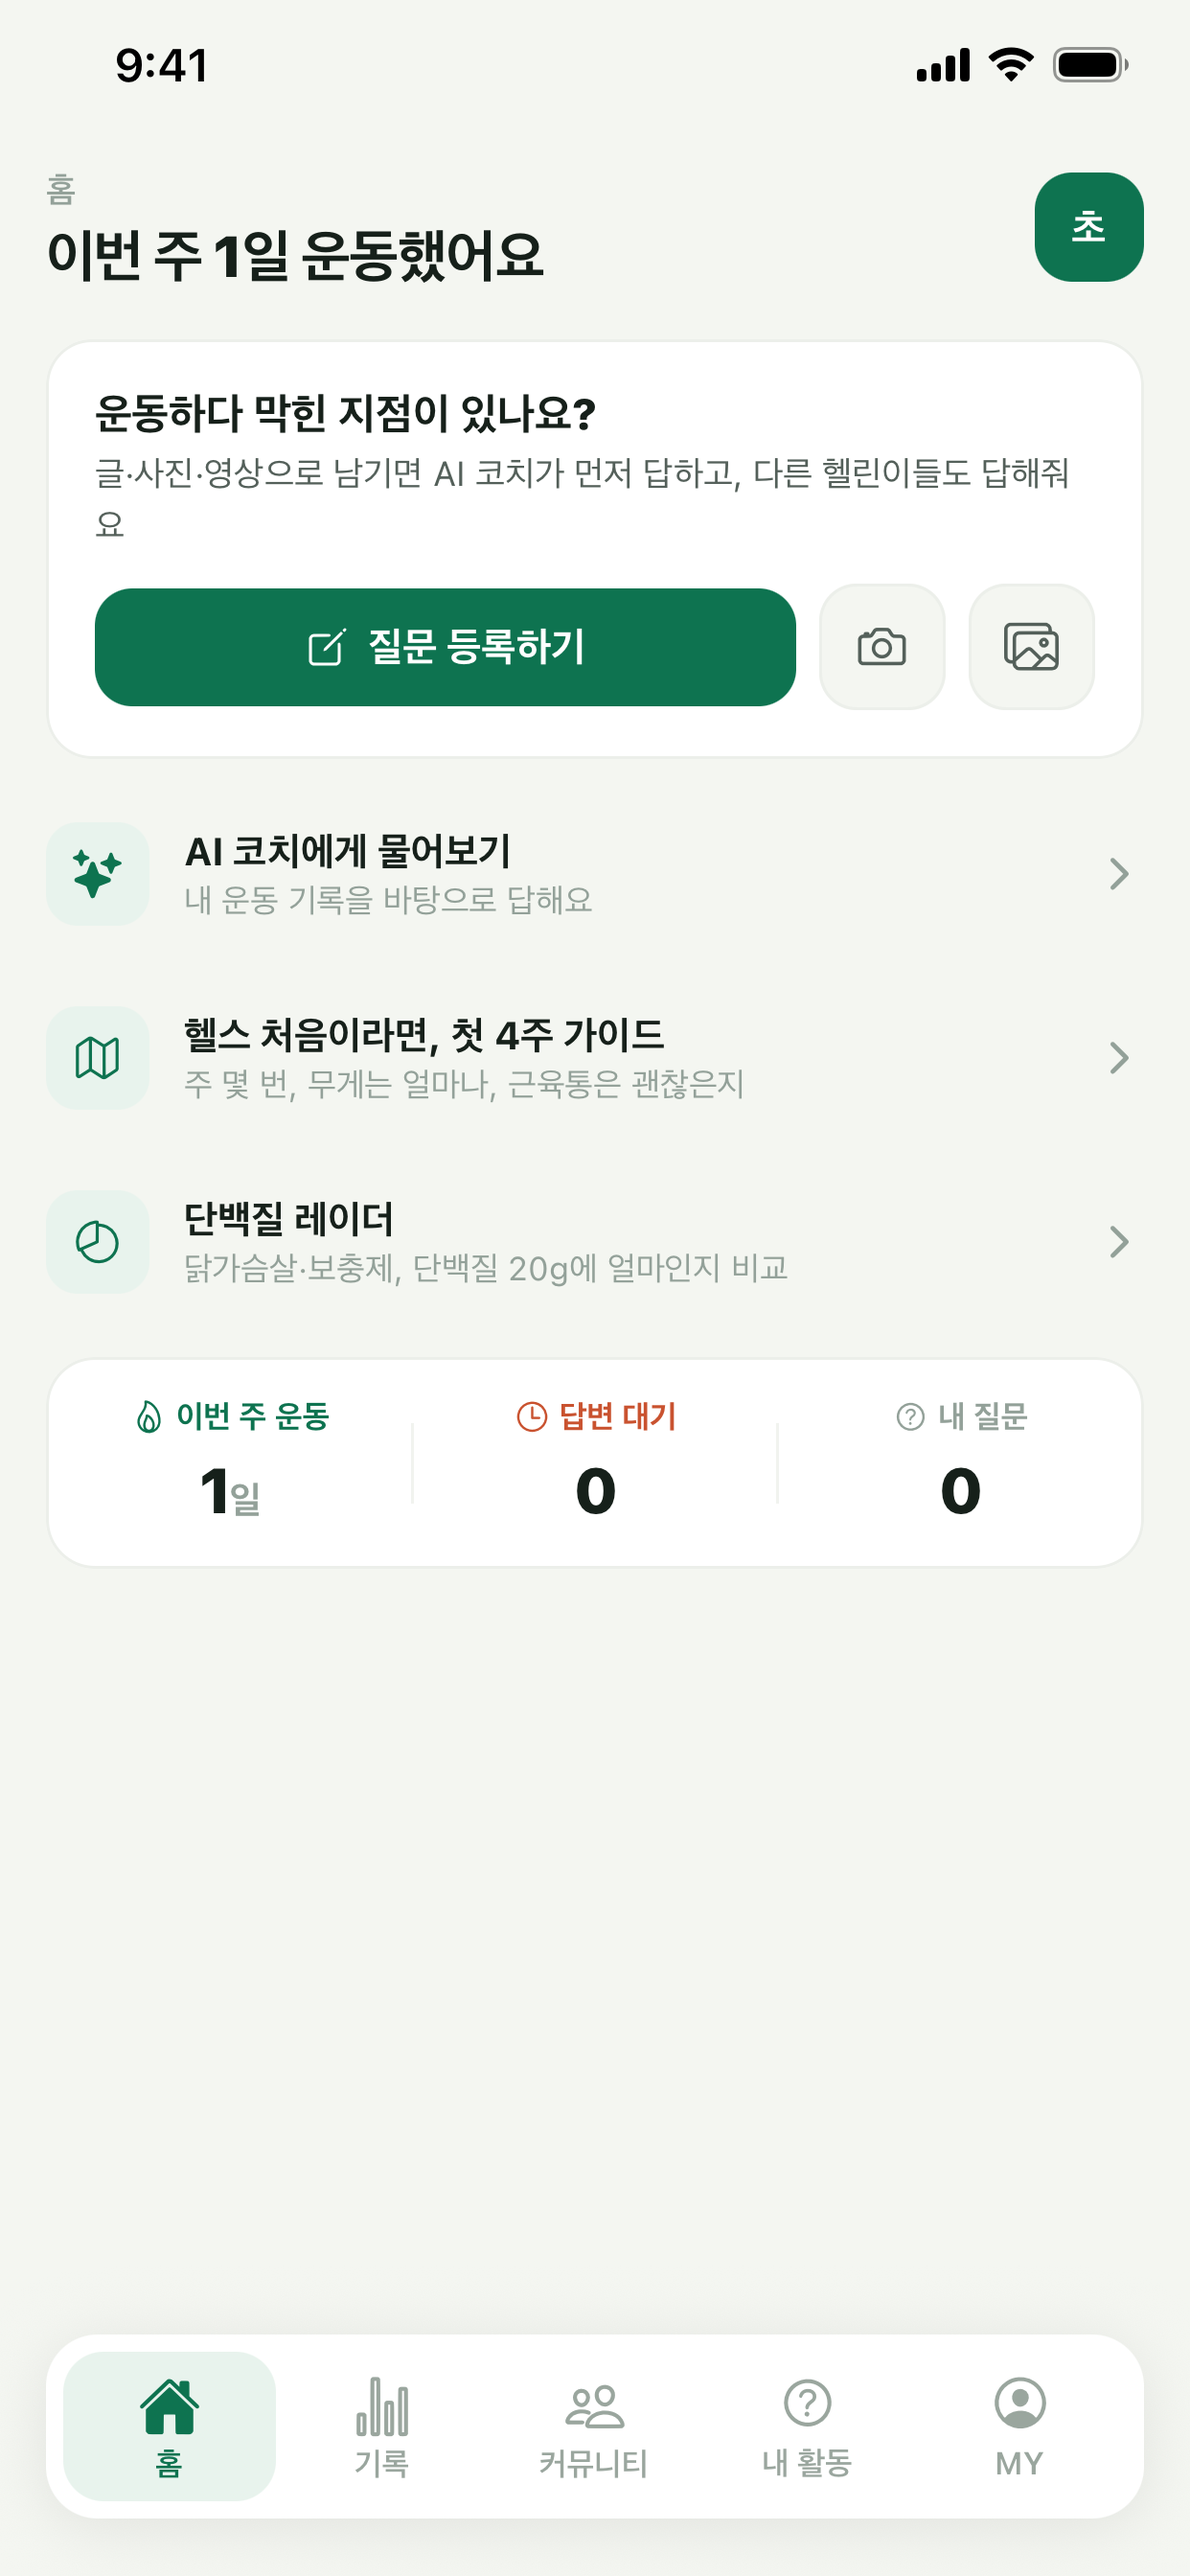
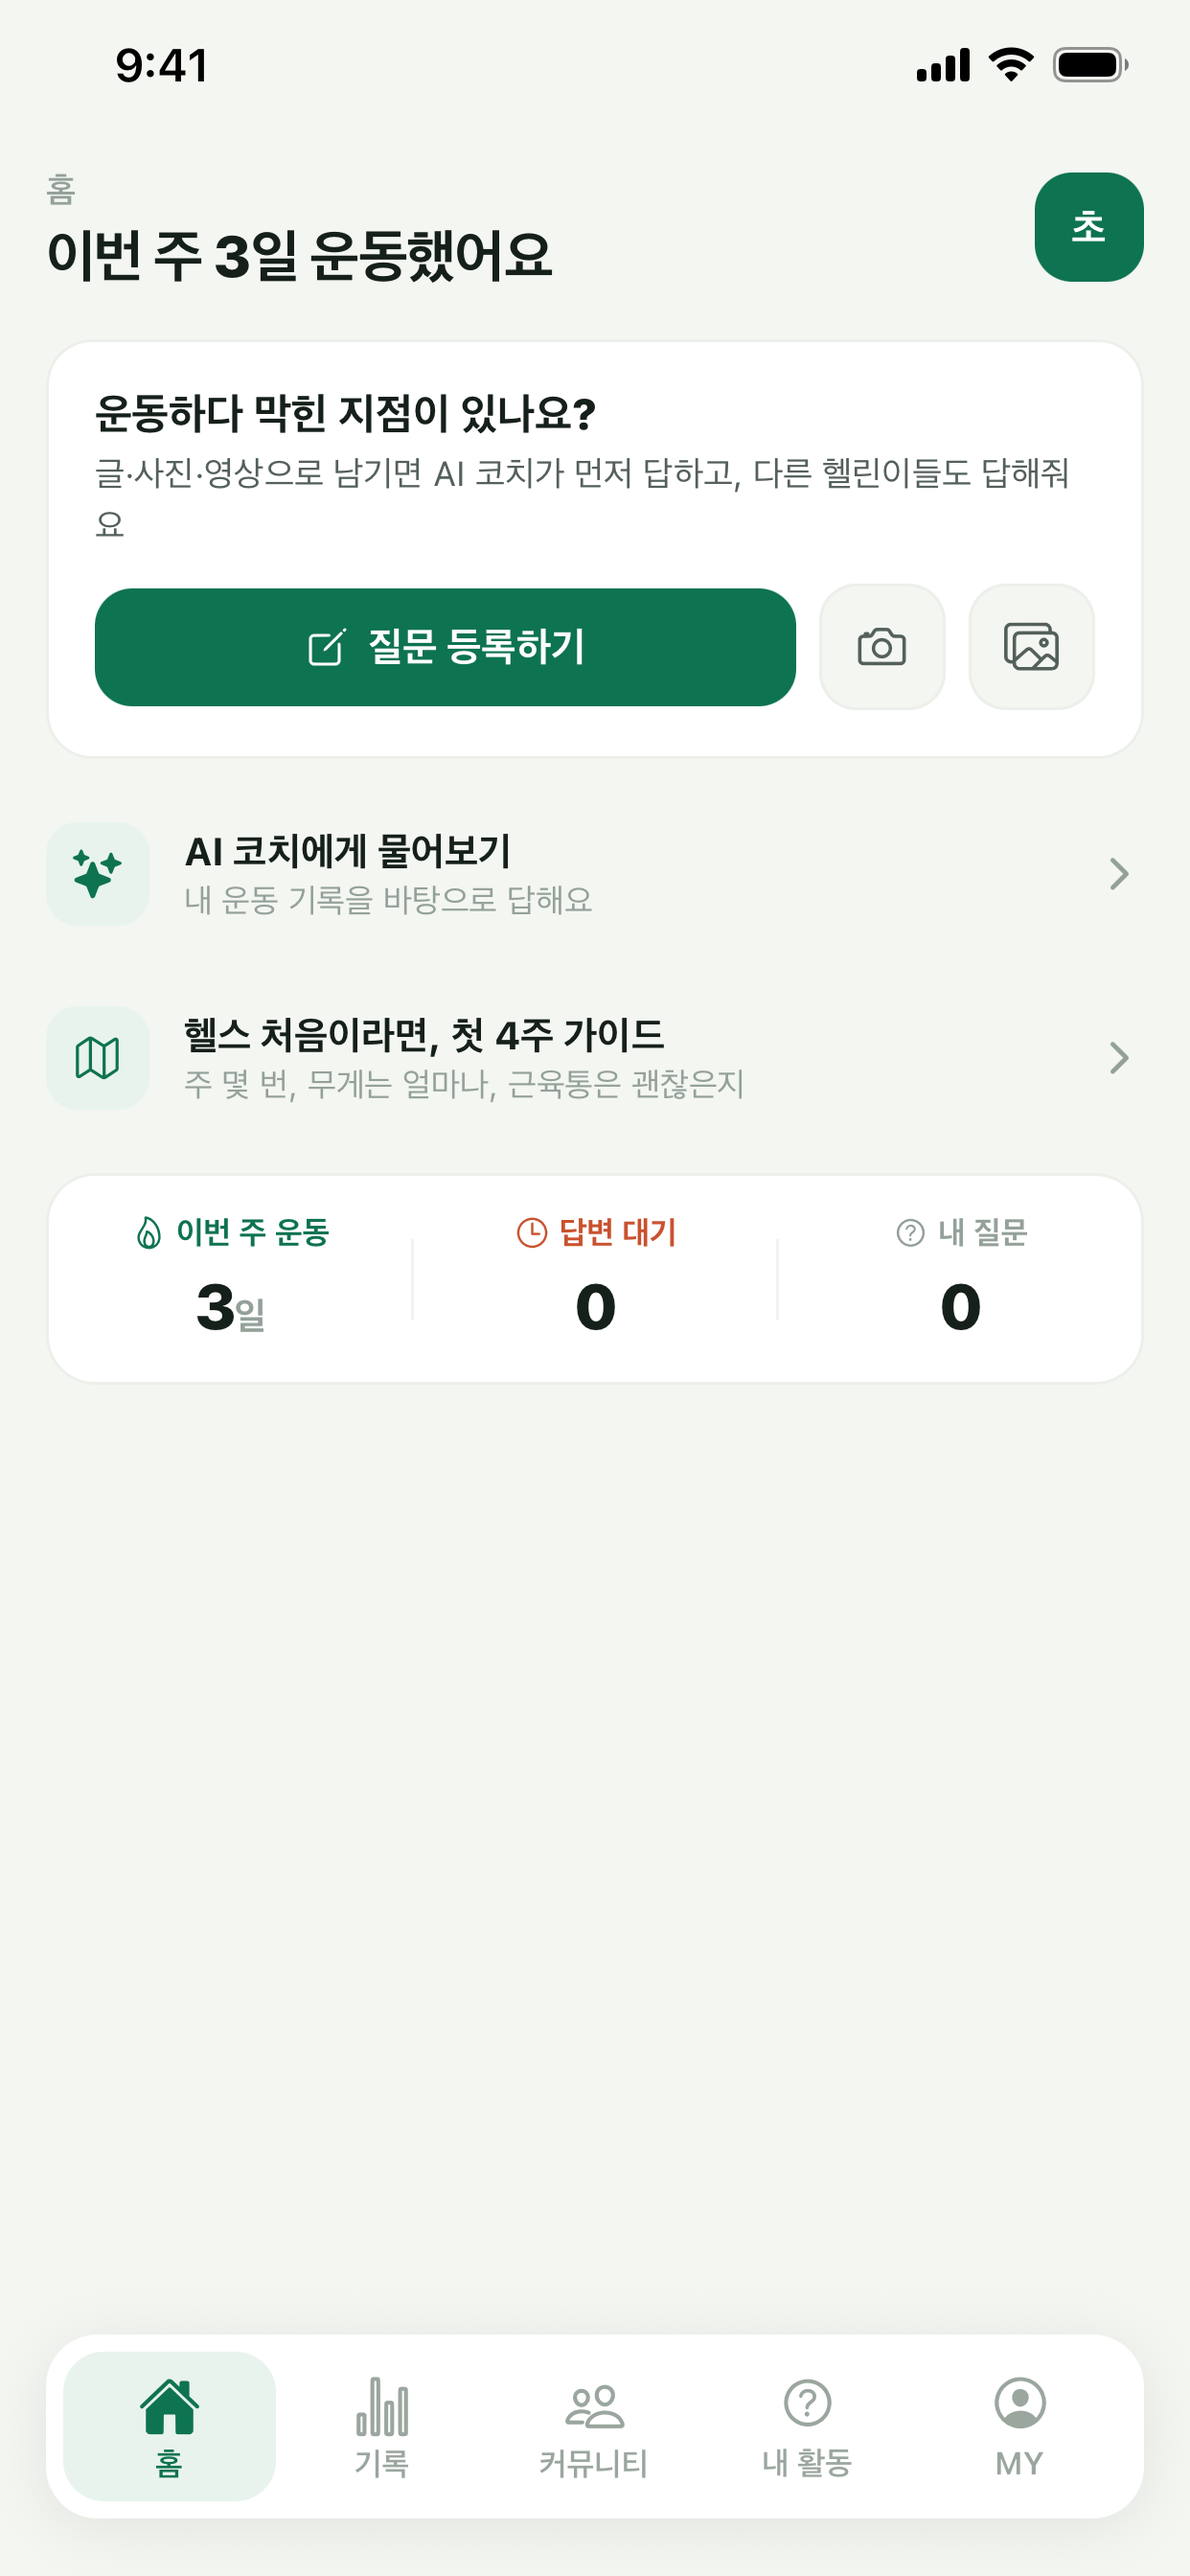
1.4.10 반영: 단백질 레이더 삭제, 루틴 불러오기·휴식 타이머·운동 알림 추가, 홈 화면 교체

diff --git a/index.html b/index.html
@@ -4,11 +4,11 @@
   <meta charset="utf-8">
   <meta name="viewport" content="width=device-width, initial-scale=1">
   <title>헬린이 상담소 | 운동 초보를 위한 AI 헬스 상담</title>
-  <meta name="description" content="헬스 초보를 위한 무료 앱. 운동 기록을 붙여 질문하면 AI 코치가 답하고, 첫 4주 가이드·리포트 그래프·체성분 기록·단백질 가격 비교까지 한곳에서.">
+  <meta name="description" content="헬스 초보를 위한 무료 앱. 운동 기록을 붙여 질문하면 AI 코치가 답하고, 첫 4주 가이드·리포트 그래프·체성분 기록·휴식 타이머까지 한곳에서.">
   <meta name="naver-site-verification" content="ee974ff48a9e0876048217d2c11dffc7c0ecab77">
   <link rel="canonical" href="https://helini-consult.com/">
   <meta property="og:title" content="헬린이 상담소 | 헬스 초보를 위한 AI 운동 상담">
-  <meta property="og:description" content="운동 기록을 붙여 질문하면 AI 코치가 답해요. 첫 4주 가이드, 리포트 그래프, 체성분 기록, 단백질 가격 비교까지.">
+  <meta property="og:description" content="운동 기록을 붙여 질문하면 AI 코치가 답해요. 첫 4주 가이드, 리포트 그래프, 체성분 기록, 휴식 타이머까지.">
   <meta property="og:url" content="https://helini-consult.com/">
   <meta property="og:type" content="website">
   <script src="./support.js"></script>
@@ -221,7 +221,7 @@
           </article>
           <article class="proof-card">
             <image-slot id="growth-feature" src="./screenshots/4-growth.png" shape="rect" placeholder="성장 기록 화면"></image-slot>
-            <div><p class="eyebrow" style="color:#9a7100">GROWTH LOG</p><h3>작은 기록이 다음 운동의 힌트가 돼요.</h3><p>kg·lb 모두 적을 수 있고, 같은 운동을 적으면 지난번 무게를 바로 불러올 수 있어요.</p></div>
+            <div><p class="eyebrow" style="color:#9a7100">GROWTH LOG</p><h3>작은 기록이 다음 운동의 힌트가 돼요.</h3><p>지난번 루틴을 통째로 불러오고, 세트 사이엔 휴식 타이머를 켜요. 운동하는 요일엔 알림으로 알려드려요. kg·lb 모두 적을 수 있어요.</p></div>
           </article>
           <article class="proof-card">
             <image-slot id="flow-feature" src="./screenshots/6-flow.png" shape="rect" placeholder="리포트 흐름 그래프"></image-slot>
@@ -230,10 +230,6 @@
           <article class="proof-card">
             <image-slot id="body-feature" src="./screenshots/7-body.png" shape="rect" placeholder="체성분 기록 화면"></image-slot>
             <div><p class="eyebrow">BODY LOG</p><h3>인바디 결과지, 찍어서 기록해요.</h3><p>결과지를 찍으면 AI가 숫자를 읽어 칸을 채워요. 맞는지 확인하고 저장하면 되고, 사진은 저장하지 않아요.</p></div>
-          </article>
-          <article class="proof-card">
-            <image-slot id="protein-feature" src="./screenshots/8-protein.png" shape="rect" placeholder="단백질 레이더 화면"></image-slot>
-            <div><p class="eyebrow">PROTEIN RADAR</p><h3>단백질 20g에 얼마인지 비교해요.</h3><p>닭가슴살, 보충제, 계란처럼 종류가 달라도 가격과 영양성분표 숫자만 적으면 같은 기준으로 줄 세워요.</p></div>
           </article>
           <article class="proof-card">
             <image-slot id="guide-feature" src="./screenshots/1-home.png" shape="rect" placeholder="홈 화면"></image-slot>
@@ -252,7 +248,7 @@
             <div class="gallery-item"><image-slot id="gallery-1" src="./screenshots/1-home.png" shape="rect" placeholder="홈 화면"></image-slot><span>홈</span></div>
             <div class="gallery-item"><image-slot id="gallery-2" src="./screenshots/5-ai-coach.png" shape="rect" placeholder="AI 코치 채팅"></image-slot><span>AI 코치</span></div>
             <div class="gallery-item"><image-slot id="gallery-3" src="./screenshots/6-flow.png" shape="rect" placeholder="리포트 그래프"></image-slot><span>리포트 그래프</span></div>
-            <div class="gallery-item"><image-slot id="gallery-4" src="./screenshots/8-protein.png" shape="rect" placeholder="단백질 레이더"></image-slot><span>단백질 레이더</span></div>
+            <div class="gallery-item"><image-slot id="gallery-4" src="./screenshots/7-body.png" shape="rect" placeholder="체성분 기록"></image-slot><span>체성분 기록</span></div>
           </div>
           <div hidden>
             <image-slot id="gallery-1b" src="./screenshots/1-home.png" shape="rect"></image-slot>
